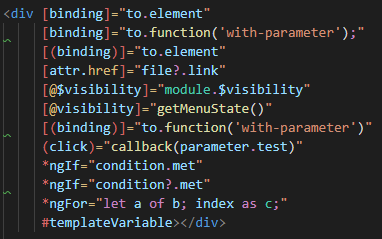
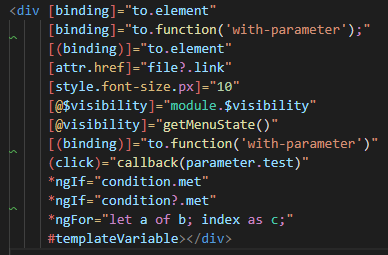
Support for style binding with units, Fixed self closing tags with space before being shown as blue instead of gray, Fixed invalid attribute tag input pattern matching

Changed region(s): [[0.0, 0.0, 0.9791, 1.0]]

diff --git a/test/test.component.html b/test/test.component.html
@@ -172,6 +172,7 @@ ANGULAR DIRECTIVES
      [binding]="to.function('with-parameter');"
      [(binding)]="to.element"
      [attr.href]="file?.link"
+     [style.font-size.px]="10"
      [@$visibility]="module.$visibility"
      [@visibility]="getMenuState()"
      [(binding)]="to.function('with-parameter')"
@@ -385,3 +386,10 @@ GENERIC ATTRIBUTES
 <input type="">
 
 <label class="teste"></label>
+
+<button [attr.aria-label]=""></button>
+<button [style.background-color]="canSave ? 'cyan': 'grey'">Save</button>
+<button [style.font-size.em]="isSpecial ? 3 : 1">Big</button>
+
+<input />
+<input />

diff --git a/CHANGELOG.md b/CHANGELOG.md
@@ -1,6 +1,12 @@
 # Change Log
 
-# 0.0.23 (08/11/2018)
+# 0.0.24 (08/11/2018)
+
+- Support for style binding with units `[style.font-size.px]="15"`
+- Fixed self closing tags with space before being shown as blue instead of gray [#5](https://github.com/ghaschel/vscode-angular-html/issues/5)
+- Fixed invalid attribute tag input pattern matching
+
+# 0.0.23 (_08/11/2018_)
 
 - Removed `$` from `[@]` highlight as it makes no sense.
 - Returned `</>` colors to default keep it similar to any other HTML highlighting (feedbacks are welcome)
